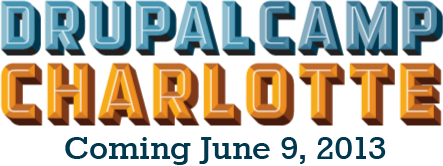
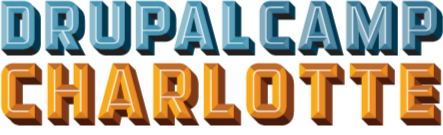
Updated coming soon text in the camp header image

diff --git a/www/index.php b/www/index.php
@@ -293,7 +293,7 @@
   <body>
     <div>
       <div class="logo bounceInLeft animated"><img src="images/logo.png" alt="Home"></div>
-      <div class="animated fadeInUp"><img src="images/coming-soon-summer.png" alt="DrupalCamp Charlotte 2014"></div>
+      <div class="animated fadeInUp"><img src="images/coming-soon.png" alt="DrupalCamp Charlotte 2014"></div>
 
 
       <!-- Begin MailChimp Signup Form -->
